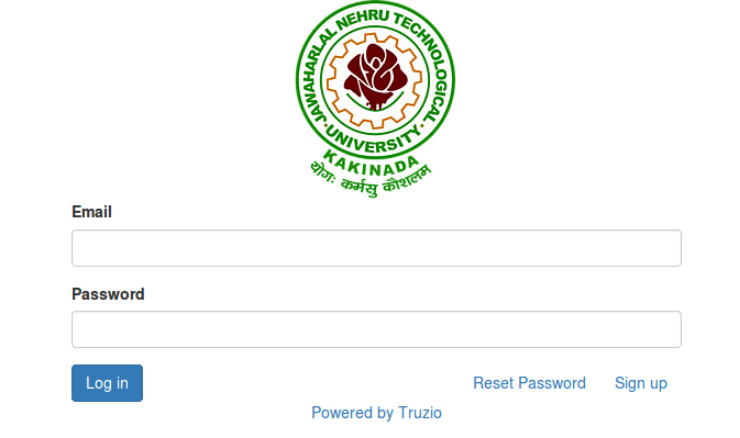
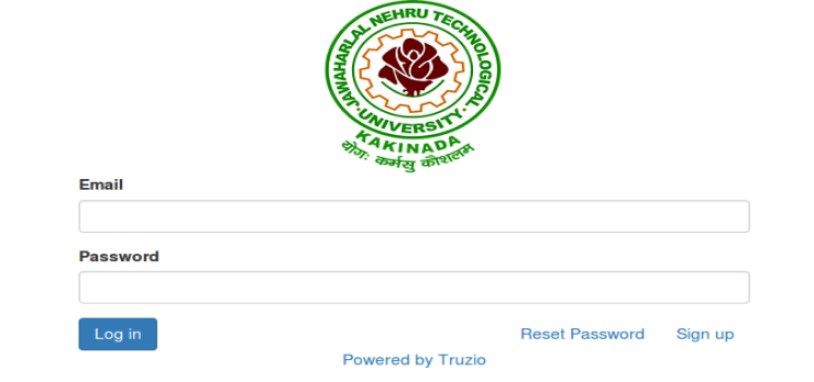
description pages added

diff --git a/projects/piramal_swathya.html b/projects/piramal_swathya.html
@@ -2,7 +2,7 @@
 <html> 
 <head> 
     <title> 
-    PROJECT- Educational ERP
+    PROJECT- Priramal Swasthya
     </title> 
     <meta charset="utf-8">
     <meta http-equiv="X-UA-Compatible" content="IE=edge">
@@ -25,57 +25,15 @@
 </div>
 
     <div class="container"> 
-        <h1 class="head">Educational ERP</h1> 
-            <p><span class="subheads">subject Line:</span>
-            <br>&nbsp;&nbsp;&nbsp;&nbsp;&nbsp;&nbsp;&nbsp;&nbsp;&nbsp;&nbsp;&nbsp;
-            The education ERP project for automation of the <b>Jawaharlal Nehru Technological University kakinada(JNTUK)</b> aimed to automate convesional process of <i>Accounting and Examination</i> of Affiliated colleges of around 200+.</p>
-            <p>Education system forms a backbone of every nation. And hence it is important to provide a strong educational foundation for the young generation
-            to ensure the development of open-minded global citizens securing the future
-            for everyone. Advanced technologies that available today plays a crucial role
-            in streaming education related processes to promote solidarity among
-            students, faculty, parents and the staff.</p>
-            <p>In recent years higher education has been strongly influenced by global
-            trends, especially as a result of the call by governments for universities
-            worldwide to improve their performance and efficiency. Rising stakeholder’s
-            expectations (particularly students and governments), quality and
-            performance requirements, competitive education environments along with
-            decreasing governmental support have pressured universities worldwide to
-            adopt new strategies in order to improve their performance.
-            Consequently, the higher education sector has turned to Enterprise
-            Resource Planning (ERP) systems in the hope of helping them to cope with
-            the changing environment. As a result, existing management and
-            administration computer systems have been replaced by ERP in these
-            institutions to achieve more efficiency and accessibility for all members and
-            improve end-user’s performance by providing better managerial tools.
-            The primary goal is to integrate all the education departments along with all Colleges of University from different domains through a single interface under a secured digital environment with effective cybersecurity
-            measures.</p>
-            <p><span class="subheads">Proposed System</span></br>
-            Now the Educational ERP system computerizes all the details that are
-            maintained manually. Once the details are fed into the system there is no
-            need for various persons to deal with separate sections. Then, a single
-            person is enough to maintain all the reports and records. The security can
-            also be given as per the user requirement.
-            It has the following benefits:
-            <ul><li>High volumes of data can be stored with ease.</li>
-              <li>Maintenance of files is efficient and flexible.</li><li>Edition of stored data and procedures can be easy.<li>Reports can be generated with cases.</li><li>Accurate and perfect calculations are made.</li><li>Manpower is reduced, strengthen decision-making</li><li>Automate all educational scenarios.</li></ul>
-            The ERP System for JNTUK aims at bridging gaps between people,
-            processes, applications, and systems. It basically deals with following
-            modules – Admissions Module, Human Resources Module, Examination
-            Module, Research &amp; Development Module, Academics Module, Placement
-            Module, and Administration Module.</p>
-            <img class="img-center border-img" alt="Architecture of Education ERP - JNTUK" src="../images/edicationa_erp.png">
-            <p align='center' class="fig-text">Architecture of Education ERP - JNTUK</p>
-            <span class="subheads">Agile software development method</span>
-            <p>For this project we adopt the <i>agile Methodology,</i></br><p>&nbsp;Agile software development methods support a broad range of the software development lifecycle. Some focus on the practices while some focus on managing the flow of work (e.g., Scrum, Kanban). Some support the activities for requirements specification and development, while some seek to cover the full development life cycle.</p><p> Agile software development is supported by a number of concrete practices, covering areas like requirements, design, modeling, coding, testing, planning, risk management, process, quality, etc. An Agile Method is a particular approach to project management that is utilized in software development. This method assists teams in responding to the unpredictability of constructing software. It uses incremental, iterative work sequences that are commonly known as sprints.</p>
-            <img class="img-center border-img" alt="Agile Architecture" src="../images/agile.png">
-            <p class="fig-text" align='center'>Agile Methodology</p>
-            In adoption of agile Methodology we design the <i class="subheads" >sprint Plan,</i><br/><p>The sprint planning session is one of the key activities to ensure a successful execution of your agile projects. If it’s done correctly, it will help ensure you have the commitment and buy-in from each team member to deliver the content to the best of their ability.
-            The sprint planning session is a collaborative meeting in which the team estimates the size of user stories, breaks down stories into tasks and commits to deliver the stories during a sprint as per the pre-determined and agreed upon “definition of done”.</p>
-            <p>As a Successful completions of some module, The first page of the project,</p>
-            <img class="img-center border-img" alt="Project Page" src="../images/login_page.png">
-            <p align='center' class="fig-text">Login Page</p>
+        <h1 class="head">Piramal Swasthya ERP (openERP)</h1> 
+            <p><span class="subheads">subject Line:</span></p><p>&nbsp;&nbsp;&nbsp;&nbsp;&nbsp;&nbsp;&nbsp;&nbsp;&nbsp;&nbsp;&nbsp;This was developed in openERP7 specific to `PRIRAMAL SWASTHYA` organization,which is one of the largest not-for-profit organizations in India – in the primary public healthcare space with a focus on Maternal Health, Child and Adolescent Health, Non-communicable Diseases aim to <i>Purchase </i>of medicine and transpotation and <i>Employee Management.</i></p>
+            <p><span class="subheads">Purchanse management System:</span></p>
+            <p>The healthcare related Purchases and and invoices printing done through the this module with combination of the <i>flet management system.</i><span class="img-border img-center"><img src="../images/lead-bg.jpg"></span></p>
+            <p><span class="subheads">Employee Mangement System:</span></p>
+            <p>Each Employee part of the ERP system and worked for any specific project in the organization through this track the project budget also.And General Employee related senerios like leaves,payroll,employee details and attendance are also bridge the employee and employer by this ERP.
+            </p>
 
-
+            <p></p>
     </div>
 
        <!-- Footer -->
@@ -86,18 +44,51 @@
 
     <!-- Grid row-->
     <div class="row">
-
+        <div class="col-sm-5 copyright">
+                    <p>
+                         Copyright &copy; <span id="copyright1"></span><script>document.getElementById('copyright1').appendChild(document.createTextNode(new Date().getFullYear()))</script> INTI SANKAR
+                    </p>
+                </div>
+                <div class="col-sm-2 top">
+                    <a href="../index.html" ><i class="fa fa-home"></i></a>
+                   <!--  <span id="to-top">
+                        <i class="fa fa-chevron-up" aria-hidden="true"></i>
+                    </span> -->
+                </div>
+        <div class="col-sm-5 social">
+                    <ul>
+                        <li>
+                            <a href="https://sankar3.pythonanywhere.com" target="_blank"><i class="fa fa-globe" aria-hidden="true"></i></a>
+                        </li>
+                        <li>
+                            <a href="https://github.com/intisankar" target="_blank"><i class="fa fa-github" aria-hidden="true"></i></a>
+                        </li>
+                        
+                        <li>
+                            <a href="https://stackoverflow.com/intisankar3" target="_blank"><i class="fa fa-stack-overflow" aria-hidden="true"></i></a>
+                        </li>
+                        <li>
+                            <a href="https://www.linkedin.com/in/intisankar3/" target="_blank"><i class="fa fa-linkedin"></i></a>
+                        </li>
+                        <li>
+                            <a href="https://www.facebook.com/intisankar3" target="_blank"><i class="fa fa-facebook" aria-hidden="true"></i></a>
+                        </li>
+                        <li>
+                            <a href="https://twitter.com/intisankar3" target="_blank"><i class="fa fa-twitter" aria-hidden="true"></i></a>
+                        </li>
+                        <li>
+                            <a href="https://www.instagram.com/intisankar3" target="_blank"><i class="fa fa-instagram" aria-hidden="true"></i></a>
+                        </li>
+                        <li>
+                            <a href="https://www.skype.com/intisankar3/" target="_blank"><i class="fa fa-skype" aria-hidden="true"></i></a>
+                        </li>
+                    </ul>
+                </div>
     </div>
     <!-- Grid row-->
-
   </div>
   <!-- Footer Elements -->
-
-  <!-- Copyright -->
-  <div class="footer-copyright text-left py-3">Copyright© 2020 INTI SANKAR
-  </div>
-  <!-- Copyright -->
-
 </footer>
+
 <!-- Footer -->
 </html>     

diff --git a/projects/educationalerp.html b/projects/educationalerp.html
@@ -26,7 +26,7 @@
 
     <div class="container"> 
         <h1 class="head">Educational ERP</h1> 
-            <p><span class="subheads">subject Line:</span>
+            <p><span id="to-top"class="subheads">subject Line:</span>
             <br>&nbsp;&nbsp;&nbsp;&nbsp;&nbsp;&nbsp;&nbsp;&nbsp;&nbsp;&nbsp;&nbsp;
             The education ERP project for automation of the <b>Jawaharlal Nehru Technological University kakinada(JNTUK)</b> aimed to automate convesional process of <i>Accounting and Examination</i> of Affiliated colleges of around 200+.</p>
             <p>Education system forms a backbone of every nation. And hence it is important to provide a strong educational foundation for the young generation
@@ -64,16 +64,16 @@
             Module, Research &amp; Development Module, Academics Module, Placement
             Module, and Administration Module.</p>
             <img class="img-center border-img" alt="Architecture of Education ERP - JNTUK" src="../images/edicationa_erp.png">
-            <p align='center' class="fig-text">Architecture of Education ERP - JNTUK</p>
+            <p class="fig-text">Architecture of Education ERP - JNTUK</p>
             <span class="subheads">Agile software development method</span>
             <p>For this project we adopt the <i>agile Methodology,</i></br><p>&nbsp;Agile software development methods support a broad range of the software development lifecycle. Some focus on the practices while some focus on managing the flow of work (e.g., Scrum, Kanban). Some support the activities for requirements specification and development, while some seek to cover the full development life cycle.</p><p> Agile software development is supported by a number of concrete practices, covering areas like requirements, design, modeling, coding, testing, planning, risk management, process, quality, etc. An Agile Method is a particular approach to project management that is utilized in software development. This method assists teams in responding to the unpredictability of constructing software. It uses incremental, iterative work sequences that are commonly known as sprints.</p>
             <img class="img-center border-img" alt="Agile Architecture" src="../images/agile.png">
-            <p class="fig-text" align='center'>Agile Methodology</p>
+            <p class="fig-text">Agile Methodology</p>
             In adoption of agile Methodology we design the <i class="subheads" >sprint Plan,</i><br/><p>The sprint planning session is one of the key activities to ensure a successful execution of your agile projects. If it’s done correctly, it will help ensure you have the commitment and buy-in from each team member to deliver the content to the best of their ability.
             The sprint planning session is a collaborative meeting in which the team estimates the size of user stories, breaks down stories into tasks and commits to deliver the stories during a sprint as per the pre-determined and agreed upon “definition of done”.</p>
-            <p>As a Successful completions of some module, The first page of the project,</p>
+            <p>As a Successful completions of some modules, The first page of the project,</p>
             <img class="img-center border-img" alt="Project Page" src="../images/login_page.png">
-            <p align='center' class="fig-text">Login Page</p>
+            <p class="fig-text" align="center">Login Page</p>
 
 
     </div>
@@ -86,18 +86,51 @@
 
     <!-- Grid row-->
     <div class="row">
-
+        <div class="col-sm-5 copyright">
+                    <p>
+                         Copyright &copy; <span id="copyright1"></span><script>document.getElementById('copyright1').appendChild(document.createTextNode(new Date().getFullYear()))</script> INTI SANKAR
+                    </p>
+                </div>
+                <div class="col-sm-2 top">
+                    <a href="../index.html" ><i class="fa fa-home"></i></a>
+                   <!--  <span id="to-top">
+                        <i class="fa fa-chevron-up" aria-hidden="true"></i>
+                    </span> -->
+                </div>
+        <div class="col-sm-5 social">
+                    <ul>
+                        <li>
+                            <a href="https://sankar3.pythonanywhere.com" target="_blank"><i class="fa fa-globe" aria-hidden="true"></i></a>
+                        </li>
+                        <li>
+                            <a href="https://github.com/intisankar" target="_blank"><i class="fa fa-github" aria-hidden="true"></i></a>
+                        </li>
+                        
+                        <li>
+                            <a href="https://stackoverflow.com/intisankar3" target="_blank"><i class="fa fa-stack-overflow" aria-hidden="true"></i></a>
+                        </li>
+                        <li>
+                            <a href="https://www.linkedin.com/in/intisankar3/" target="_blank"><i class="fa fa-linkedin"></i></a>
+                        </li>
+                        <li>
+                            <a href="https://www.facebook.com/intisankar3" target="_blank"><i class="fa fa-facebook" aria-hidden="true"></i></a>
+                        </li>
+                        <li>
+                            <a href="https://twitter.com/intisankar3" target="_blank"><i class="fa fa-twitter" aria-hidden="true"></i></a>
+                        </li>
+                        <li>
+                            <a href="https://www.instagram.com/intisankar3" target="_blank"><i class="fa fa-instagram" aria-hidden="true"></i></a>
+                        </li>
+                        <li>
+                            <a href="https://www.skype.com/intisankar3/" target="_blank"><i class="fa fa-skype" aria-hidden="true"></i></a>
+                        </li>
+                    </ul>
+                </div>
     </div>
     <!-- Grid row-->
-
   </div>
   <!-- Footer Elements -->
-
-  <!-- Copyright -->
-  <div class="footer-copyright text-left py-3">Copyright© 2020 INTI SANKAR
-  </div>
-  <!-- Copyright -->
-
 </footer>
+
 <!-- Footer -->
 </html>     

diff --git a/projects/bilezpos.html b/projects/bilezpos.html
@@ -2,7 +2,7 @@
 <html> 
 <head> 
     <title> 
-    PROJECT- Educational ERP
+    PROJECT - Billez POS
     </title> 
     <meta charset="utf-8">
     <meta http-equiv="X-UA-Compatible" content="IE=edge">
@@ -15,7 +15,6 @@
     <link href='https://fonts.googleapis.com/css?family=Parisienne' rel='stylesheet'>
     <link rel="stylesheet" href="https://cdnjs.cloudflare.com/ajax/libs/font-awesome/4.7.0/css/font-awesome.min.css">
     <link href="../css/styles.css" rel="stylesheet">
-    
 </head>
 
 <body>
@@ -25,11 +24,13 @@
 </div>
 
     <div class="container"> 
-        <h1 class="head">Patient Health Monitoring System (PHMS)</h1> 
+        <h1 class="head">Billez POS</h1> 
             <p><span id="to-top"class="subheads">subject Line:</span>
             <br>&nbsp;&nbsp;&nbsp;&nbsp;&nbsp;&nbsp;&nbsp;&nbsp;&nbsp;&nbsp;&nbsp;
-            The quality of clinical decisions depends on part of the quality of information available, to the decision maker” By this idea we had developed the system to judge the patient medical prescription by using the previous medical records. In many serious conditions like heart attacks etc,. Patients health records are very much important to judge the correct proceedings of medical treatments in a short span of time.</p>
-            <p></p>
+            The POS System is designed for the Retail market businees.This is mainly  amied to the <i>salon and food process </i>  which provides the Digitalization of the receipts. </p>
+            <p>
+                
+            </p>
     </div>
 
        <!-- Footer -->
@@ -46,6 +47,7 @@
                     </p>
                 </div>
                 <div class="col-sm-2 top">
+                    <a href="../index.html" ><i class="fa fa-home"></i></a>
                    <!--  <span id="to-top">
                         <i class="fa fa-chevron-up" aria-hidden="true"></i>
                     </span> -->

diff --git a/projects/billezpos.html b/projects/billezpos.html
@@ -2,7 +2,7 @@
 <html> 
 <head> 
     <title> 
-    PROJECT- Educational ERP
+    PROJECT - Billez POS
     </title> 
     <meta charset="utf-8">
     <meta http-equiv="X-UA-Compatible" content="IE=edge">
@@ -15,7 +15,6 @@
     <link href='https://fonts.googleapis.com/css?family=Parisienne' rel='stylesheet'>
     <link rel="stylesheet" href="https://cdnjs.cloudflare.com/ajax/libs/font-awesome/4.7.0/css/font-awesome.min.css">
     <link href="../css/styles.css" rel="stylesheet">
-    
 </head>
 
 <body>
@@ -25,11 +24,13 @@
 </div>
 
     <div class="container"> 
-        <h1 class="head">Patient Health Monitoring System (PHMS)</h1> 
+        <h1 class="head">Billez POS</h1> 
             <p><span id="to-top"class="subheads">subject Line:</span>
             <br>&nbsp;&nbsp;&nbsp;&nbsp;&nbsp;&nbsp;&nbsp;&nbsp;&nbsp;&nbsp;&nbsp;
-            The quality of clinical decisions depends on part of the quality of information available, to the decision maker” By this idea we had developed the system to judge the patient medical prescription by using the previous medical records. In many serious conditions like heart attacks etc,. Patients health records are very much important to judge the correct proceedings of medical treatments in a short span of time.</p>
-            <p></p>
+            The POS System is designed for the Retail market businees.This is mainly  amied to the <i>salon and food process </i>  which provides the Digitalization of the receipts. </p>
+            <p>
+                
+            </p>
     </div>
 
        <!-- Footer -->
@@ -46,6 +47,7 @@
                     </p>
                 </div>
                 <div class="col-sm-2 top">
+                    <a href="../index.html" ><i class="fa fa-home"></i></a>
                    <!--  <span id="to-top">
                         <i class="fa fa-chevron-up" aria-hidden="true"></i>
                     </span> -->

diff --git a/index.html b/index.html
@@ -153,6 +153,8 @@
         <h2 class="heading">Projects</h2>
         <div class="container">
             <div class="row">
+                
+
                 <div class="project shadow-large">
                     <div class="project-image">
                         <img src="images/project.jpg" />
@@ -165,9 +167,23 @@
                         </p>
                         <a href="projects/educationalerp.html">View Project</a>
                     </div>
-
                 <!-- End .project-info -->
                 </div>
+
+                <div class="project shadow-large">
+                    <div class="project-image">
+                        <img src="images/project.jpg" />
+                    </div>
+                    <!-- End .project-image -->
+                    <div class="project-info">
+                        <h3>Billez POS </h3>
+                        <p>
+                           The POS System is designed for the Retail market businees.This is mainly  amied to the <i>salon and food process </i>  which provides the Digitalization of the receipts. </p>
+                        <a href="projects/billezpos.html">View Project</a>
+                    </div>
+                <!-- End .project-info -->
+                </div>
+
                 <div class="project shadow-large">
                     <div class="project-image">
                         <img src="images/project.jpg" />
@@ -244,7 +260,7 @@
             <div class="row">
                 <div class="col-sm-5 copyright">
                     <p>
-                        Copyright &copy; 2020 INTI SANKAR
+                        Copyright &copy; <span id="copyright1"></span><script>document.getElementById('copyright1').appendChild(document.createTextNode(new Date().getFullYear()))</script> INTI SANKAR
                     </p>
                 </div>
                 <div class="col-sm-2 top">

diff --git a/css/styles.css b/css/styles.css
@@ -22,7 +22,12 @@
             margin-left: 20px;
             font-size: 26px;
 }
-p{
+.fig-text{
+    font-family: 'Parisienne';
+    text-align: center;
+    font-size: 14px;
+}
+div p{
     text-align: justify;
     text-justify: inter-word;
 }
@@ -30,13 +35,15 @@ p{
   display: block;
   margin-left: auto;
   margin-right: auto;
-  width: auto;
-  height: auto;
 }
-.fig-text{
-    font-family: 'Parisienne';
-    text-align: 'center';
-}
+@media only screen and (max-width: 750px){
+.img-center{
+  display: block;
+  margin-left: auto;
+  margin-right: auto;
+  width: 90%;
+}}
+
 .border-img {
   border-radius: 20px;
   background: #217dbb; 
@@ -44,4 +51,7 @@ p{
 }
 .footer-copyright{
     color: white;padding-left: 10px;
+}
+.fa-home{
+  font-size: 30px;
 }
